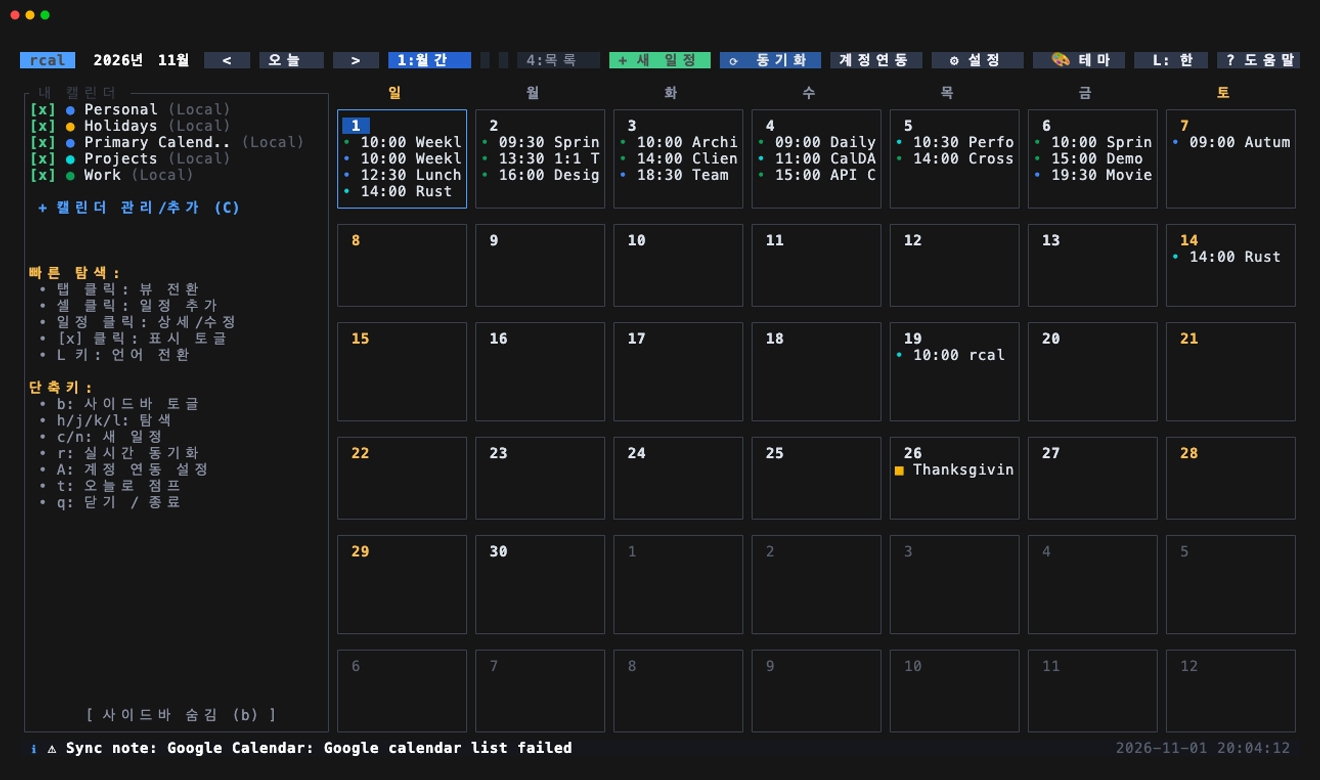
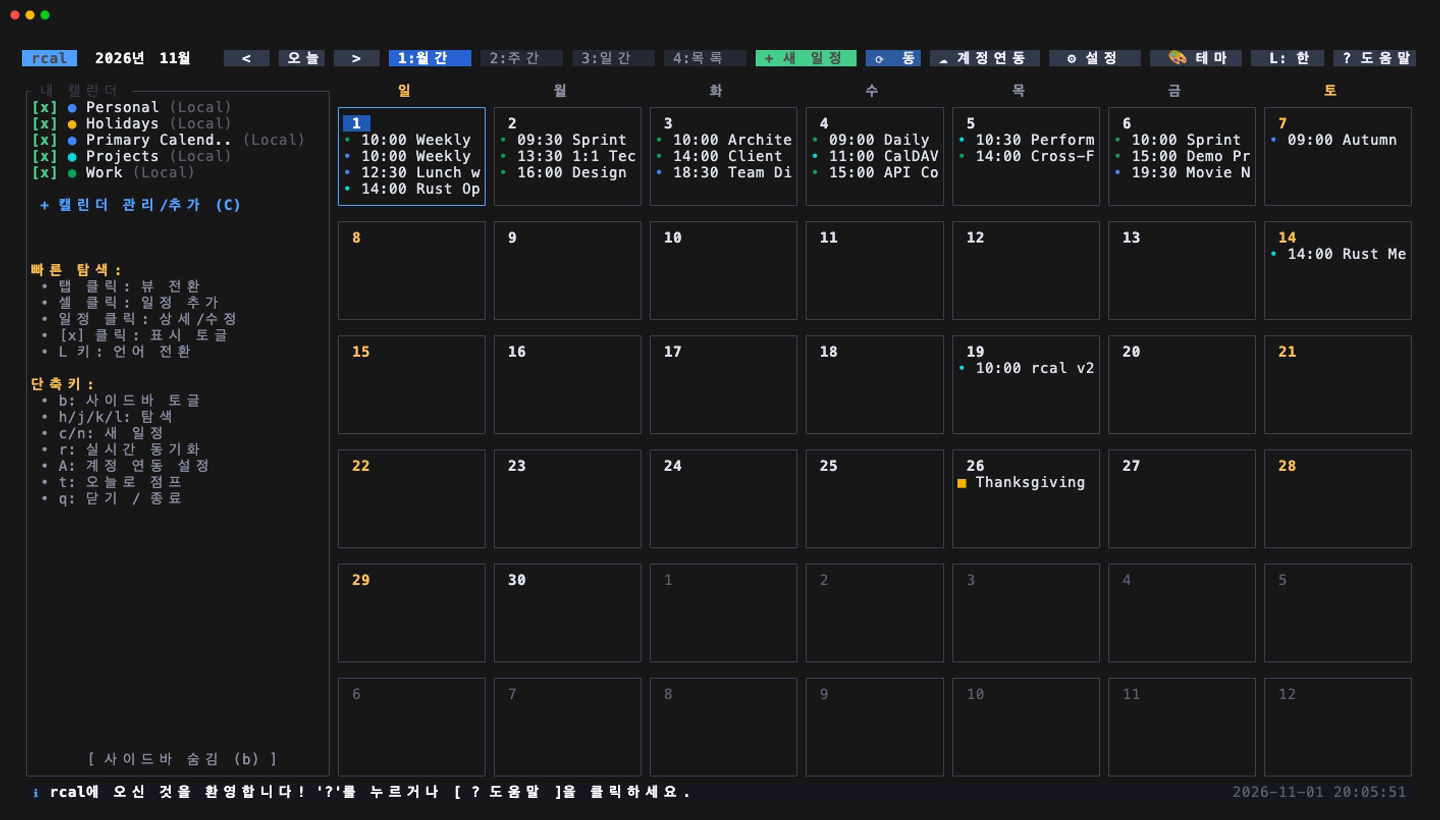
fix(input): support Korean 'ㅣ' / '이' for language modal and update tests

diff --git a/tests/hangul_ime_test.rs b/tests/hangul_ime_test.rs
@@ -19,17 +19,13 @@ fn test_hangul_vim_navigation() -> anyhow::Result<()> {
     handle_crossterm_event(&mut app, make_key_event(KeyCode::Char('ㅗ'), KeyModifiers::NONE))?;
     assert_eq!(app.selected_date, start_date - Duration::days(1));
 
-    // 'ㅣ' is 'l' (Right) -> 1 day forward
-    handle_crossterm_event(&mut app, make_key_event(KeyCode::Char('ㅣ'), KeyModifiers::NONE))?;
-    assert_eq!(app.selected_date, start_date);
-
     // 'ㅓ' is 'j' (Down) -> 7 days forward in Month view
     handle_crossterm_event(&mut app, make_key_event(KeyCode::Char('ㅓ'), KeyModifiers::NONE))?;
-    assert_eq!(app.selected_date, start_date + Duration::days(7));
+    assert_eq!(app.selected_date, start_date - Duration::days(1) + Duration::days(7));
 
     // 'ㅏ' is 'k' (Up) -> 7 days back in Month view
     handle_crossterm_event(&mut app, make_key_event(KeyCode::Char('ㅏ'), KeyModifiers::NONE))?;
-    assert_eq!(app.selected_date, start_date);
+    assert_eq!(app.selected_date, start_date - Duration::days(1));
 
     Ok(())
 }
@@ -84,6 +80,11 @@ fn test_hangul_action_shortcuts() -> anyhow::Result<()> {
     assert!(matches!(app.modal, ActiveModal::Settings));
     app.close_modal();
 
+    // 'ㄴ' is 's' -> Settings modal
+    handle_crossterm_event(&mut app, make_key_event(KeyCode::Char('ㄴ'), KeyModifiers::NONE))?;
+    assert!(matches!(app.modal, ActiveModal::Settings));
+    app.close_modal();
+
     // 'ㅂ' is 'q' -> Quit app
     assert!(app.running);
     handle_crossterm_event(&mut app, make_key_event(KeyCode::Char('ㅂ'), KeyModifiers::NONE))?;
@@ -96,6 +97,16 @@ fn test_hangul_action_shortcuts() -> anyhow::Result<()> {
 fn test_hangul_shift_shortcuts() -> anyhow::Result<()> {
     let db = Database::in_memory()?;
     let mut app = App::new(db)?;
+
+    // Korean 'L' key: 'ㅣ' (without shift) -> Opens Language Selection modal
+    handle_crossterm_event(&mut app, make_key_event(KeyCode::Char('ㅣ'), KeyModifiers::NONE))?;
+    assert!(matches!(app.modal, ActiveModal::Language(_)));
+    app.close_modal();
+
+    // Korean 'L' key: '이' (syllable with 'ㅣ') -> Opens Language Selection modal
+    handle_crossterm_event(&mut app, make_key_event(KeyCode::Char('이'), KeyModifiers::NONE))?;
+    assert!(matches!(app.modal, ActiveModal::Language(_)));
+    app.close_modal();
 
     // Shift + 'ㅣ' is 'L' -> Opens Language Selection modal
     handle_crossterm_event(&mut app, make_key_event(KeyCode::Char('ㅣ'), KeyModifiers::SHIFT))?;

diff --git a/src/ui/header.rs b/src/ui/header.rs
@@ -13,10 +13,10 @@ pub fn render(f: &mut Frame, app: &mut App, area: Rect) {
     let chunks = Layout::default()
         .direction(Direction::Horizontal)
         .constraints([
-            Constraint::Length(24), // Title & Month display
-            Constraint::Length(20), // Navigation buttons (<, Today, >)
-            Constraint::Min(24),    // View tabs (Month, Week, Day, Agenda)
-            Constraint::Length(82), // Action buttons (+ New, ⟳ Sync, ☁ Accounts, Settings, Theme, L:Lang, ? Help)
+            Constraint::Length(22), // Title & Month display
+            Constraint::Length(18), // Navigation buttons (<, Today, >)
+            Constraint::Length(40), // View tabs (Month, Week, Day, Agenda: 9+1+9+1+9+1+9 = 39)
+            Constraint::Min(60),    // Action buttons (+ New, ⟳ Sync, ☁ Accounts, Settings, Theme, L:Lang, ? Help)
         ])
         .split(area);
 

diff --git a/tests/i18n_test.rs b/tests/i18n_test.rs
@@ -278,7 +278,15 @@ mod tests {
         assert_eq!(app.lang, Language::Ja);
         assert_eq!(app.modal, ActiveModal::None);
 
-        // Shift + 'ㅣ' (Korean IME) also normalizes to 'L': opens Language modal
+        // 'ㅣ' (Korean IME without Shift) normalizes to 'L': opens Language modal
+        handle_crossterm_event(
+            &mut app,
+            CrosstermEvent::Key(KeyEvent::new(KeyCode::Char('ㅣ'), KeyModifiers::NONE)),
+        )?;
+        assert!(matches!(app.modal, ActiveModal::Language(_)));
+        app.close_modal();
+
+        // Shift + 'ㅣ' (Korean IME with Shift) also normalizes to 'L': opens Language modal
         handle_crossterm_event(
             &mut app,
             CrosstermEvent::Key(KeyEvent::new(KeyCode::Char('ㅣ'), KeyModifiers::SHIFT)),
